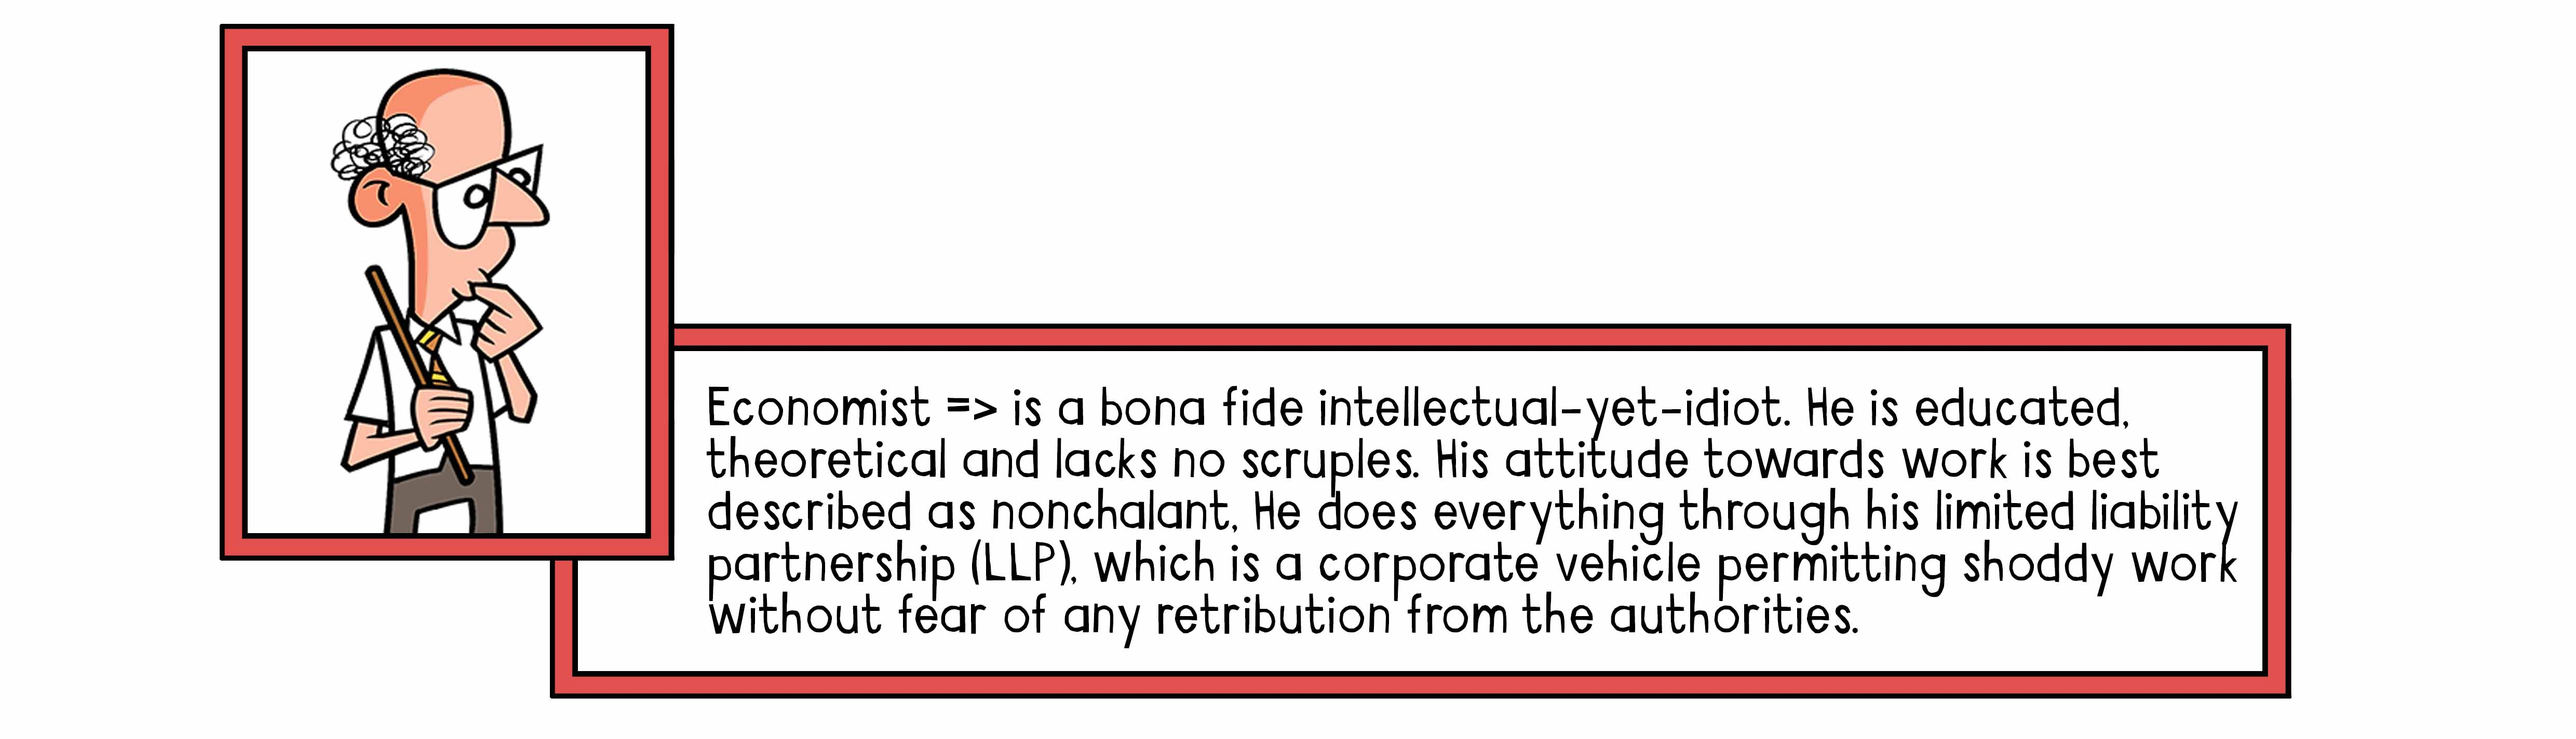
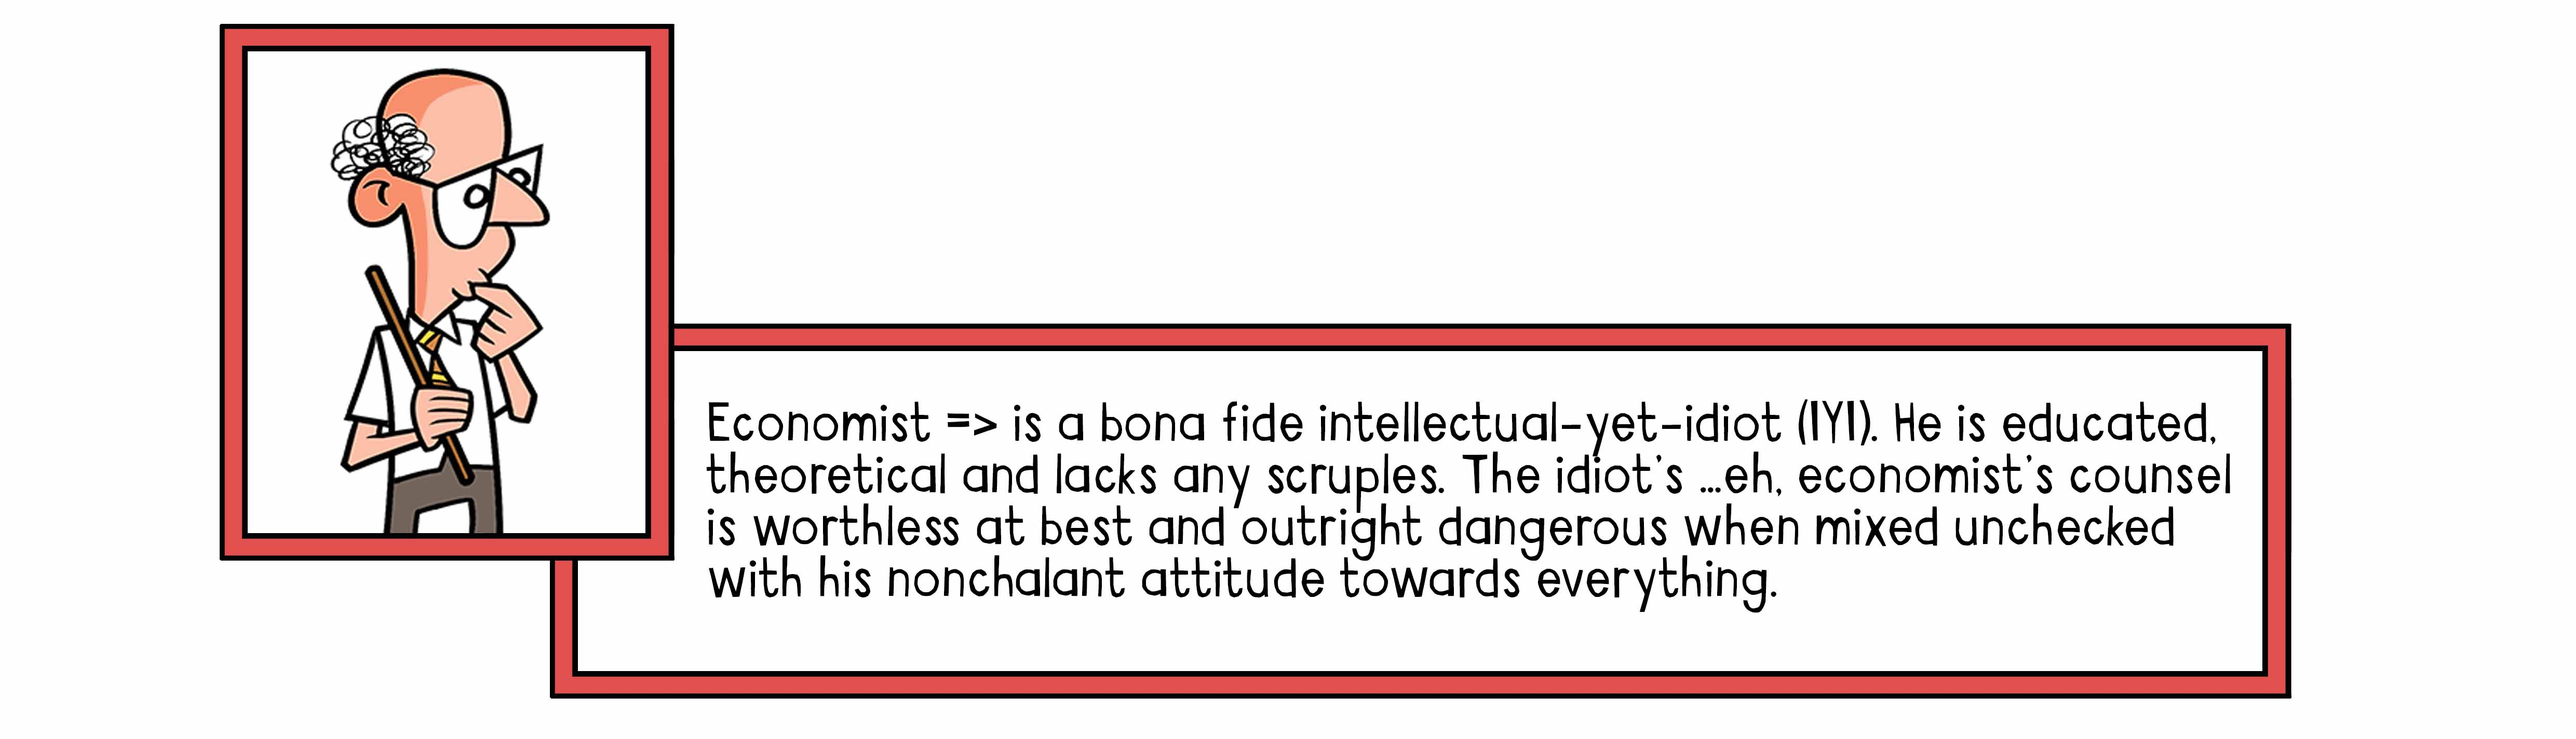
Added new strip and updated html and js accordingly.

Changed region(s): [[0.2499, 0.5249, 0.8748, 0.8646]]

diff --git a/myscripts.js b/myscripts.js
@@ -1,4 +1,4 @@
-var Strips = ["images/S223.jpg","images/S222.jpg","images/S221.jpg","images/S220.jpg","images/S219.jpg","images/S218.jpg","images/S217.jpg","images/S216.jpg","images/S215.jpg","images/S214.jpg","images/S213.jpg","images/S212.jpg","images/S211.jpg","images/S210.jpg","images/S209.jpg","images/S208.jpg","images/S207.jpg","images/S206.jpg","images/S205.jpg","images/S204.jpg","images/S203.jpg","images/S202.jpg","images/S201.jpg","images/S200.jpg","images/S199.jpg","images/S198.jpg","images/S197.jpg","images/S196.jpg","images/S195.jpg","images/S194.jpg","images/S193.jpg","images/S192.jpg","images/S191.jpg","images/S190.jpg","images/S189.jpg","images/S188.jpg","images/S187.jpg","images/S186.jpg","images/S185.jpg","images/S184.jpg","images/S183.jpg","images/S182.jpg","images/S181.jpg","images/S180.jpg","images/S179.jpg","images/S178.jpg","images/S177.jpg","images/S176.jpg","images/S175.jpg","images/S174.jpg","images/S173.jpg","images/S172.jpg","images/S171.jpg","images/S170.jpg","images/S169.jpg","images/S168.jpg","images/S167.jpg","images/S166.jpg","images/S165.jpg","images/S164.jpg","images/S163.jpg","images/S162.jpg","images/S161.jpg","images/S160.jpg","images/S159.jpg","images/S158.jpg","images/S157.jpg","images/S156.jpg","images/S155.jpg","images/S154.jpg","images/S153.jpg","images/S152.jpg","images/S151.jpg","images/S150.jpg","images/S149.jpg","images/S148.jpg","images/S147.jpg","images/S146.jpg","images/S145.jpg","images/S144.jpg","images/S143.jpg","images/S142.jpg","images/S141.jpg","images/S140.jpg","images/S139.jpg","images/S138.jpg","images/S137.jpg","images/S136.jpg","images/S135.jpg","images/S134.jpg","images/S133.jpg","images/S132.jpg","images/S131.jpg","images/S130.jpg","images/S129.jpg","images/S128.jpg","images/S127.jpg","images/S126.jpg","images/S125.jpg","images/S124.jpg","images/S123.jpg","images/S122.jpg","images/S121.jpg","images/S120.jpg","images/S119.jpg","images/S118.jpg","images/S117.jpg","images/S116.jpg","images/S115.jpg","images/S114.jpg","images/S113.jpg","images/S112.jpg","images/S111.jpg","images/S110.jpg","images/S109.jpg","images/S108.jpg","images/S107.jpg","images/S106.jpg","images/S105.jpg","images/S104.jpg","images/S103.jpg","images/S102.jpg","images/S101.jpg","images/S100.jpg","images/S99.jpg","images/S98.jpg","images/S97.jpg","images/S96.jpg","images/S95.jpg","images/S94.jpg","images/S93.jpg","images/S92.jpg","images/S91.jpg","images/S90.jpg","images/S89.jpg","images/S88.jpg","images/S87.jpg","images/S86.jpg","images/S85.jpg","images/S84.jpg","images/S83.jpg","images/S82.jpg","images/S81.jpg","images/S80.jpg","images/S79.jpg","images/S78.jpg","images/S77.jpg","images/S76.jpg","images/S75.jpg","images/S74.jpg","images/S73.jpg","images/S72.jpg","images/S71.jpg","images/S70.jpg","images/S69.jpg","images/S68.jpg","images/S67.jpg","images/S66.jpg","images/S65.jpg","images/S64.jpg","images/S63.jpg","images/S62.jpg","images/S61.jpg","images/S60.jpg","images/S59.jpg","images/S58.jpg","images/S57.jpg","images/S56.jpg","images/S55.jpg","images/S54.jpg","images/S53.jpg","images/S52.jpg","images/S51.jpg","images/S50.jpg","images/S49.jpg","images/S48.jpg","images/S47.jpg","images/S46.jpg","images/S45.jpg","images/S44.jpg","images/S43.jpg","images/S42.jpg","images/S41.jpg","images/S40.jpg","images/S39.jpg","images/S38.jpg","images/S37.jpg","images/S36.jpg","images/S35.jpg","images/S34.jpg","images/S33.jpg","images/S32.jpg","images/S31.jpg","images/S30.jpg","images/S29.jpg","images/S28.jpg","images/S27.jpg","images/S26.jpg","images/S25.jpg","images/S24.jpg","images/S23.jpg","images/S22.jpg","images/S21.jpg","images/S20.jpg","images/S19.jpg","images/S18.jpg","images/S17.jpg","images/S16.jpg","images/S15.jpg","images/S14.jpg","images/S13.jpg","images/S12.jpg","images/S11.jpg","images/S10.jpg","images/S9.jpg","images/S8.jpg","images/S7.jpg","images/S6.jpg","images/S5.jpg","images/S4.jpg","images/S3.jpg","images/S2.jpg","images/S1.jpg"];
+var Strips = ["images/S224.jpg","images/S223.jpg","images/S222.jpg","images/S221.jpg","images/S220.jpg","images/S219.jpg","images/S218.jpg","images/S217.jpg","images/S216.jpg","images/S215.jpg","images/S214.jpg","images/S213.jpg","images/S212.jpg","images/S211.jpg","images/S210.jpg","images/S209.jpg","images/S208.jpg","images/S207.jpg","images/S206.jpg","images/S205.jpg","images/S204.jpg","images/S203.jpg","images/S202.jpg","images/S201.jpg","images/S200.jpg","images/S199.jpg","images/S198.jpg","images/S197.jpg","images/S196.jpg","images/S195.jpg","images/S194.jpg","images/S193.jpg","images/S192.jpg","images/S191.jpg","images/S190.jpg","images/S189.jpg","images/S188.jpg","images/S187.jpg","images/S186.jpg","images/S185.jpg","images/S184.jpg","images/S183.jpg","images/S182.jpg","images/S181.jpg","images/S180.jpg","images/S179.jpg","images/S178.jpg","images/S177.jpg","images/S176.jpg","images/S175.jpg","images/S174.jpg","images/S173.jpg","images/S172.jpg","images/S171.jpg","images/S170.jpg","images/S169.jpg","images/S168.jpg","images/S167.jpg","images/S166.jpg","images/S165.jpg","images/S164.jpg","images/S163.jpg","images/S162.jpg","images/S161.jpg","images/S160.jpg","images/S159.jpg","images/S158.jpg","images/S157.jpg","images/S156.jpg","images/S155.jpg","images/S154.jpg","images/S153.jpg","images/S152.jpg","images/S151.jpg","images/S150.jpg","images/S149.jpg","images/S148.jpg","images/S147.jpg","images/S146.jpg","images/S145.jpg","images/S144.jpg","images/S143.jpg","images/S142.jpg","images/S141.jpg","images/S140.jpg","images/S139.jpg","images/S138.jpg","images/S137.jpg","images/S136.jpg","images/S135.jpg","images/S134.jpg","images/S133.jpg","images/S132.jpg","images/S131.jpg","images/S130.jpg","images/S129.jpg","images/S128.jpg","images/S127.jpg","images/S126.jpg","images/S125.jpg","images/S124.jpg","images/S123.jpg","images/S122.jpg","images/S121.jpg","images/S120.jpg","images/S119.jpg","images/S118.jpg","images/S117.jpg","images/S116.jpg","images/S115.jpg","images/S114.jpg","images/S113.jpg","images/S112.jpg","images/S111.jpg","images/S110.jpg","images/S109.jpg","images/S108.jpg","images/S107.jpg","images/S106.jpg","images/S105.jpg","images/S104.jpg","images/S103.jpg","images/S102.jpg","images/S101.jpg","images/S100.jpg","images/S99.jpg","images/S98.jpg","images/S97.jpg","images/S96.jpg","images/S95.jpg","images/S94.jpg","images/S93.jpg","images/S92.jpg","images/S91.jpg","images/S90.jpg","images/S89.jpg","images/S88.jpg","images/S87.jpg","images/S86.jpg","images/S85.jpg","images/S84.jpg","images/S83.jpg","images/S82.jpg","images/S81.jpg","images/S80.jpg","images/S79.jpg","images/S78.jpg","images/S77.jpg","images/S76.jpg","images/S75.jpg","images/S74.jpg","images/S73.jpg","images/S72.jpg","images/S71.jpg","images/S70.jpg","images/S69.jpg","images/S68.jpg","images/S67.jpg","images/S66.jpg","images/S65.jpg","images/S64.jpg","images/S63.jpg","images/S62.jpg","images/S61.jpg","images/S60.jpg","images/S59.jpg","images/S58.jpg","images/S57.jpg","images/S56.jpg","images/S55.jpg","images/S54.jpg","images/S53.jpg","images/S52.jpg","images/S51.jpg","images/S50.jpg","images/S49.jpg","images/S48.jpg","images/S47.jpg","images/S46.jpg","images/S45.jpg","images/S44.jpg","images/S43.jpg","images/S42.jpg","images/S41.jpg","images/S40.jpg","images/S39.jpg","images/S38.jpg","images/S37.jpg","images/S36.jpg","images/S35.jpg","images/S34.jpg","images/S33.jpg","images/S32.jpg","images/S31.jpg","images/S30.jpg","images/S29.jpg","images/S28.jpg","images/S27.jpg","images/S26.jpg","images/S25.jpg","images/S24.jpg","images/S23.jpg","images/S22.jpg","images/S21.jpg","images/S20.jpg","images/S19.jpg","images/S18.jpg","images/S17.jpg","images/S16.jpg","images/S15.jpg","images/S14.jpg","images/S13.jpg","images/S12.jpg","images/S11.jpg","images/S10.jpg","images/S9.jpg","images/S8.jpg","images/S7.jpg","images/S6.jpg","images/S5.jpg","images/S4.jpg","images/S3.jpg","images/S2.jpg","images/S1.jpg"];
 
 var Current = 0;
 var myStrip = null;

diff --git a/index.html b/index.html
@@ -38,7 +38,7 @@
 		<div class="wrapper6">
 			<div class="wrap-item61"><img src="images/2017_Offshorecomics_web_Today's Offshorecomic.jpg"/></div>
 		</div>
-		<div class="wrap-item1"><img src="images/S223.jpg" id="Strip"/></div>
+		<div class="wrap-item1"><img src="images/S224.jpg" id="Strip"/></div>
 		<div class="wrapper3">
 			<div class="wrap-item3">
 			<button class="button" onClick="Last();">&lsaquo;&lsaquo;</button>
